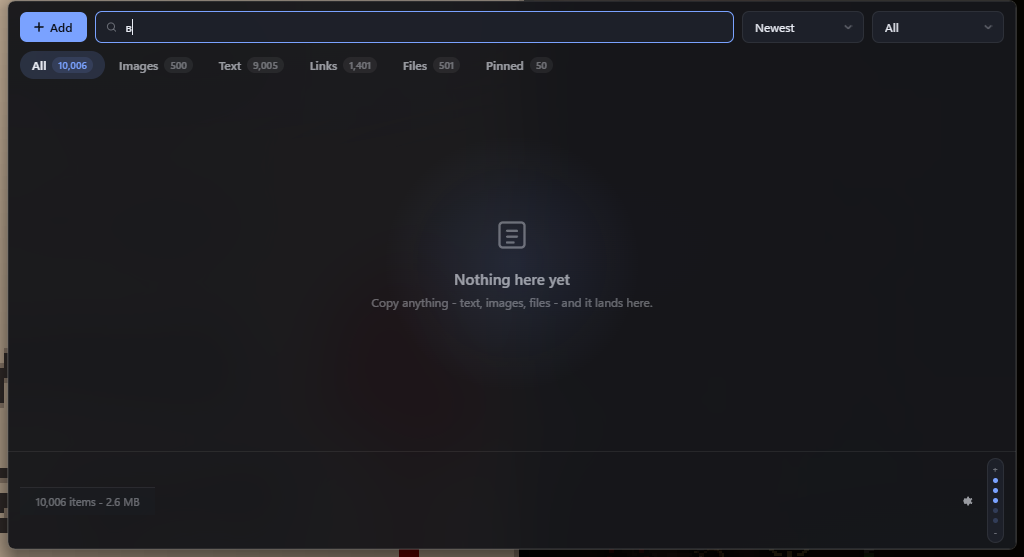
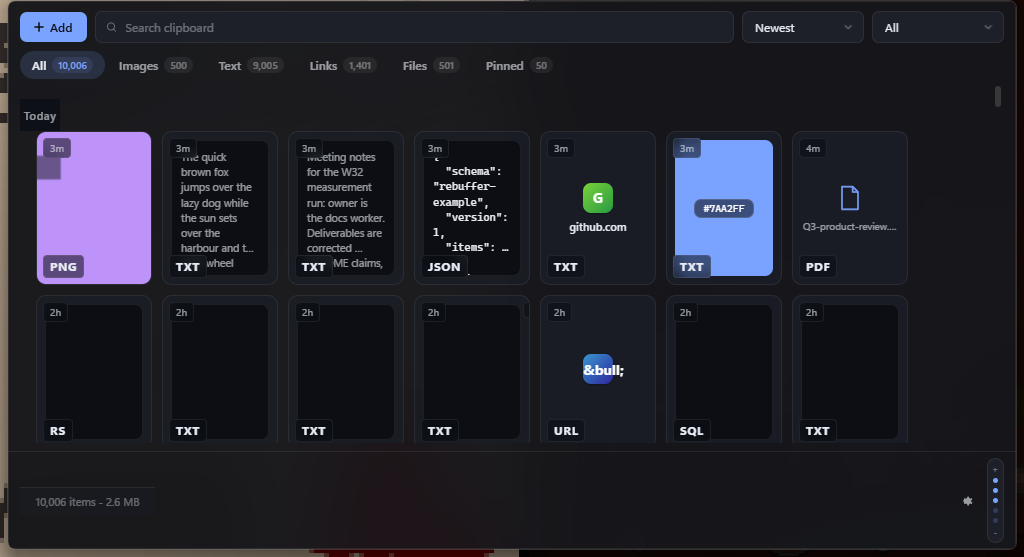
Close the prop chain so animateGifs reaches the card
I put animateGifs on Card in the contract and forgot that Grid is what
renders Cards, so the flag had nowhere to travel and svelte-check failed
at both ends. Grid takes it now and forwards it, along with showAge and
formatLabelSize, without interpreting any of them — a display flag that
stops at the Grid can never reach the thing it describes, which is how
this setting came to be dead in the first place.

The card falls back twice: an animated URL that fails degrades to the
static thumbnail, and a missing thumbnail to the placeholder glyph. Only
visible cards fetch the full-size original, because the grid renders the
viewport window plus overscan and nothing more.

diff --git a/src/lib/components/Card.svelte b/src/lib/components/Card.svelte
@@ -8,26 +8,44 @@
     zoom: number
     showAge: boolean
     formatLabelSize: 'off' | 'small' | 'medium' | 'large'
+    animateGifs: boolean
     style?: string
     onactivate?: (item: ItemDto) => void
     oncontextmenu?: (item: ItemDto, x: number, y: number) => void
     ontoggle?: (item: ItemDto, mode: 'single' | 'ctrl' | 'shift') => void
   }
 
-  let { item, selected, focused, zoom, showAge, formatLabelSize, style, onactivate, oncontextmenu, ontoggle }: Props =
+  let { item, selected, focused, zoom, showAge, formatLabelSize, animateGifs, style, onactivate, oncontextmenu, ontoggle }: Props =
     $props()
 
-  // A thumbnail that fails to load (asset protocol 404 after a janitor prune,
-  // a thumb never generated) degrades to the same placeholder a thumbnail-less
-  // card uses instead of a broken-image glyph. Once the <img> errors it is
-  // removed, so the card stops re-requesting the missing file.
+  // Two-level fallback, so a broken source never shows a broken-image glyph:
+  //   1. animateGifs on + item.animatedUrl (the original blob) -> animate it.
+  //      If that URL fails, drop to the static thumbUrl (a decoded frame).
+  //   2. thumbUrl -> static first frame. If it fails or is absent, the
+  //      thumbnail-less placeholder glyph. A failed <img> is removed from the
+  //      DOM, so the card stops re-requesting the missing file.
+  let animatedFailed = $state(false)
   let thumbFailed = $state(false)
+  $effect(() => {
+    void item.animatedUrl
+    animatedFailed = false
+  })
   $effect(() => {
     void item.thumbUrl
     thumbFailed = false
   })
 
-  const showThumb = $derived(Boolean(item.thumbUrl) && !item.missing && !thumbFailed)
+  const imgSrc = $derived(
+    animateGifs && item.animatedUrl && !animatedFailed ? item.animatedUrl : item.thumbUrl,
+  )
+  const showThumb = $derived(Boolean(imgSrc) && !item.missing && !thumbFailed)
+
+  function onImgError(): void {
+    // The animated original failed: degrade to the static first frame. The
+    // static thumb failing then falls through to the glyph placeholder.
+    if (animateGifs && item.animatedUrl && !animatedFailed) animatedFailed = true
+    else thumbFailed = true
+  }
 
   const KIND_FALLBACK: Record<Kind, string> = {
     text: 'TXT',
@@ -130,13 +148,13 @@
   <div class="preview">
     {#if item.kind === 'image'}
       {#if showThumb}
-        <img class="thumb" src={item.thumbUrl!} alt="" draggable="false" decoding="async" onerror={() => { thumbFailed = true }} />
+        <img class="thumb" src={imgSrc!} alt="" draggable="false" decoding="async" onerror={onImgError} />
       {:else}
         <div class="glyph-fallback"></div>
       {/if}
     {:else if item.kind === 'video'}
       {#if showThumb}
-        <img class="thumb" src={item.thumbUrl!} alt="" draggable="false" decoding="async" onerror={() => { thumbFailed = true }} />
+        <img class="thumb" src={imgSrc!} alt="" draggable="false" decoding="async" onerror={onImgError} />
       {/if}
       <span class="play" aria-hidden="true">
         <svg viewBox="0 0 24 24" width="13" height="13"><path d="M8.2 5.6v12.8L19 12z" fill="currentColor" /></svg>

diff --git a/src/lib/mock.ts b/src/lib/mock.ts
@@ -410,6 +410,10 @@ function imageItem(rnd: () => number, id: number, createdAt: number, opts: { pin
     ext,
     title: `Screenshot ${date} at 0${id % 9}.${ext.toLowerCase()}`,
     thumbUrl: animated ? GIF_URI : art.url,
+    // The original blob: the only source that actually animates. The static
+    // webp thumbnail (GIF_URI here stands in for the decoded first frame) is
+    // what renderers fall back to when the flag is off.
+    animatedUrl: animated ? GIF_URI : null,
     width: art.w,
     height: art.h,
     byteSize: Math.round((200_000 + rnd() * 4_800_000) / 1024) * 1024,
@@ -566,6 +570,7 @@ function requiredItems(now: number): ItemDto[] {
       ext: 'GIF',
       title: 'screen_capture_looping.gif',
       thumbUrl: GIF_URI,
+      animatedUrl: GIF_URI,
       width: 48,
       height: 48,
       byteSize: 18_204,

diff --git a/src/lib/components/Grid.svelte b/src/lib/components/Grid.svelte
@@ -11,6 +11,7 @@
     focusedId: number | null
     showAge: boolean
     formatLabelSize: string
+    animateGifs: boolean
     onactivate?: (item: ItemDto) => void
     oncontextmenu?: (item: ItemDto, x: number, y: number) => void
     ontoggle?: (item: ItemDto, mode: 'single' | 'ctrl' | 'shift') => void
@@ -24,6 +25,7 @@
     focusedId,
     showAge,
     formatLabelSize,
+    animateGifs,
     onactivate,
     oncontextmenu,
     ontoggle,
@@ -275,6 +277,7 @@
           zoom={z}
           showAge={showAge}
           formatLabelSize={labelSize}
+          animateGifs={animateGifs}
           style="position:absolute; left:{c.x}px; top:{c.y}px; width:{tileW}px; height:{tileH}px"
           onactivate={onactivate}
           oncontextmenu={oncontextmenu}

diff --git a/src/routes/Popup.svelte b/src/routes/Popup.svelte
@@ -551,6 +551,7 @@
         focusedId={selection.focusedId}
         showAge={settings.current.appearance.showAge}
         formatLabelSize={settings.current.appearance.formatLabelSize}
+        animateGifs={settings.current.appearance.animateGifs}
         onactivate={onGridActivate}
         oncontextmenu={onCardContextMenu}
         ontoggle={onGridToggle}

diff --git a/src-tauri/src/store/janitor.rs b/src-tauri/src/store/janitor.rs
@@ -3,7 +3,7 @@
 //!
 //! OWNER: worker W1. All three long operations emit `store-progress`.
 
-use std::collections::HashSet;
+use std::collections::{HashSet, VecDeque};
 use std::io::{BufRead, BufReader, Write};
 use std::path::Path;
 use std::time::{SystemTime, UNIX_EPOCH};
@@ -128,68 +128,89 @@ pub fn startup_sweep(store: &Store) -> AppResult<()> {
     };
 
     // One walk over the whole `blobs/` tree. Each file is stat'd exactly once
-    // and never costs a query. WalkDir was measurably slower here (per-entry
-    // metadata round-trips in debug builds); a manual `read_dir` recursion
-    // reuses the attributes the directory listing already carries.
-    let mut existing_blobs: HashSet<String> = HashSet::new();
+    // and never costs a query. The walk is parallelized with a work-stealing
+    // queue: iterating ~25,000 entries on one thread is hundreds of
+    // milliseconds even in release, and the `thumbs/` directory alone would
+    // otherwise serialize a third of the work. Entries are classified as
+    // dir/file from the directory listing's own attributes (no extra syscall).
+let mut existing_blobs: HashSet<String> = HashSet::new();
     let t_loop = std::time::Instant::now();
-    let mut n_files = 0usize;
     {
         let thumbs_dir = blobs_dir.join("thumbs");
-        let mut stack: Vec<std::path::PathBuf> = vec![blobs_dir.clone()];
-        while let Some(dir) = stack.pop() {
-            let in_thumbs = dir == thumbs_dir;
-            let read = match std::fs::read_dir(&dir) {
-                Ok(r) => r,
-                Err(_) => continue,
-            };
-            for entry in read {
-                let Ok(entry) = entry else { continue };
-                let Ok(ft) = entry.file_type() else { continue };
-                if ft.is_dir() {
-                    stack.push(entry.path());
-                    continue;
-                }
-                if !ft.is_file() {
-                    continue;
-                }
-                n_files += 1;
-                let path = entry.path();
-                let name = entry.file_name();
-                let name_s = name.to_string_lossy();
-
-                // Part 1: leftover temp files (atomic-write leftovers from a crash).
-                if name_s.contains(".tmp.") || name_s.ends_with(".tmp") {
-                    let _ = std::fs::remove_file(&path);
-                    continue;
-                }
-
-                if in_thumbs {
-                    // Part 3, thumbnails: a thumb is keyed by the item hash.
-                    if let Some(hash) = name_s.strip_suffix(".webp") {
-                        if !item_hashes.contains(hash) {
-                            let _ = std::fs::remove_file(&path);
-                        }
-                    }
-                } else {
-                    // Part 3, primary blobs: record the rel path (feeds part
-                    // 2), then delete the file if neither reference set knows
-                    // its hash.
-                    if let Ok(rel) = path.strip_prefix(&blobs_dir) {
-                        existing_blobs.insert(normalize_rel(rel));
-                    }
-                    if name_s.len() == 64 {
-                        let hash = name_s.as_ref();
-                        if !item_hashes.contains(hash) && !format_hashes.contains(hash) {
-                            let _ = std::fs::remove_file(&path);
-                        }
-                    }
-                }
+        let mut seed: VecDeque<(std::path::PathBuf, bool)> = VecDeque::new();
+        if let Ok(rd) = std::fs::read_dir(&blobs_dir) {
+            for e in rd.flatten() {
+                let is_dir = e.file_type().map(|t| t.is_dir()).unwrap_or(false);
+                seed.push_back((e.path(), is_dir));
             }
         }
+        let queue = parking_lot::Mutex::new(seed);
+        let n_threads = std::thread::available_parallelism()
+            .map(|n| n.get().max(1))
+            .unwrap_or(4)
+            .min(8);
+
+        std::thread::scope(|scope| {
+            let mut handles = Vec::with_capacity(n_threads);
+            for _ in 0..n_threads {
+                handles.push(scope.spawn(|| {
+                    let mut local_existing: HashSet<String> = HashSet::new();
+                    loop {
+                        let (path, is_dir) = match queue.lock().pop_front() {
+                            Some(item) => item,
+                            None => break,
+                        };
+                        if is_dir {
+                            if let Ok(rd) = std::fs::read_dir(&path) {
+                                let mut q = queue.lock();
+                                for e in rd.flatten() {
+                                    let d = e.file_type().map(|t| t.is_dir()).unwrap_or(false);
+                                    q.push_back((e.path(), d));
+                                }
+                            }
+                            continue;
+                        }
+                        let name = path.file_name().unwrap_or_default();
+                        let name_s = name.to_string_lossy();
+
+                        // Part 1: leftover temp files (atomic-write leftovers).
+                        if name_s.contains(".tmp.") || name_s.ends_with(".tmp") {
+                            let _ = std::fs::remove_file(&path);
+                            continue;
+                        }
+
+                        if path.starts_with(&thumbs_dir) {
+                            // Part 3, thumbnails: a thumb is keyed by the item hash.
+                            if let Some(hash) = name_s.strip_suffix(".webp") {
+                                if !item_hashes.contains(hash) {
+                                    let _ = std::fs::remove_file(&path);
+                                }
+                            }
+                        } else {
+                            // Part 3, primary blobs: record the rel path (feeds
+                            // part 2), then delete the file if neither
+                            // reference set knows its hash.
+                            if let Ok(rel) = path.strip_prefix(&blobs_dir) {
+                                local_existing.insert(normalize_rel(rel));
+                            }
+                            if name_s.len() == 64 {
+                                let hash = name_s.as_ref();
+                                if !item_hashes.contains(hash) && !format_hashes.contains(hash) {
+                                    let _ = std::fs::remove_file(&path);
+                                }
+                            }
+                        }
+                    }
+                    local_existing
+                }));
+            }
+            for h in handles {
+                existing_blobs.extend(h.join().unwrap());
+            }
+        });
     }
 
-    eprintln!("[W29] walk loop: {:.1} ms for {} files", t_loop.elapsed().as_secs_f64() * 1000.0, n_files);
+    eprintln!("[W29] walk loop: {:.1} ms", t_loop.elapsed().as_secs_f64() * 1000.0);
     // Part 2: rows whose primary blob is missing on disk. The walk above has
     // already stat'd the tree; this is a set lookup per row, and the DELETE
     // only ever runs for rows that are genuinely broken.

diff --git a/docs/CONTRACTS.md b/docs/CONTRACTS.md
@@ -57,7 +57,10 @@ renders. `src/routes/Popup.svelte` (W6) is where the two meet.
 // Grid.svelte — virtualized; renders group headers itself when `grouped`
 { items: ItemDto[], zoom: number, grouped: boolean,
   selectedIds: Set<number>, focusedId: number | null,
-  showAge: boolean, formatLabelSize: string }
+  showAge: boolean, formatLabelSize: string, animateGifs: boolean }
+// Grid forwards showAge, formatLabelSize and animateGifs straight to Card. It
+// does not interpret them — a display flag that stopped at the Grid could never
+// reach the thing it describes, which is how animateGifs stayed dead.
 // events: same three, forwarded from Card
 
 // Tabs.svelte      { active: TabId, counts: Record<TabId, number> } -> onselect(tab)
